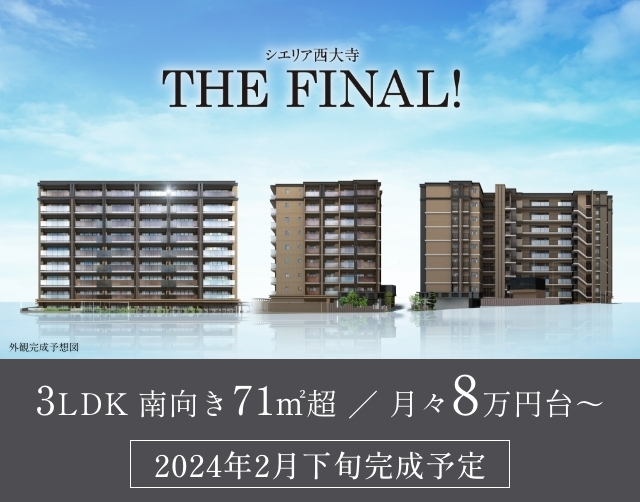
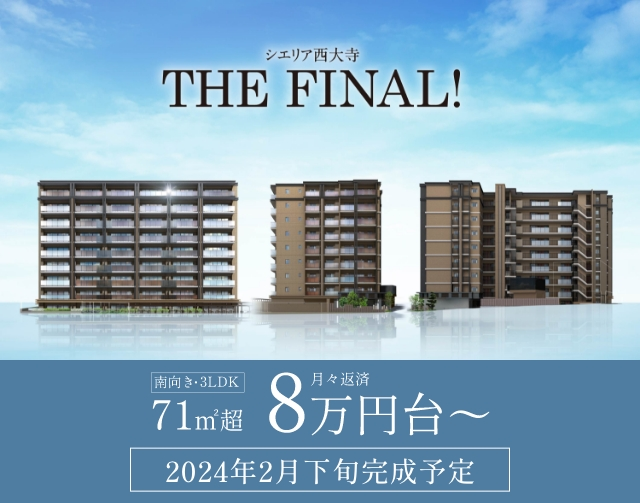
no message

diff --git a/htmlmail/231221/member.html b/htmlmail/231221/member.html
@@ -365,7 +365,7 @@ table { width: 100%; margin: 0; padding: 0; border: none; }
                 <td class="main"><img src="https://www.cielia.com/m/saidaiji61/htmlmail/231221/img/main.jpg" alt=""></td>
             </tr>
             <tr>
-                <td class="title">ラスト2邸<br>最終期モデルルーム公開中！</td>
+                <td class="title">最終期モデルルーム公開中！</td>
             </tr>
             <tr>
                 <td class="txt"><span class="center">平素は格別のご高配を賜り、有難うございます。<br>この度は、新築分譲マンション【シエリア西大寺】に<br>ご関心をお寄せいただき、誠にありがとうございます。<br><br>
